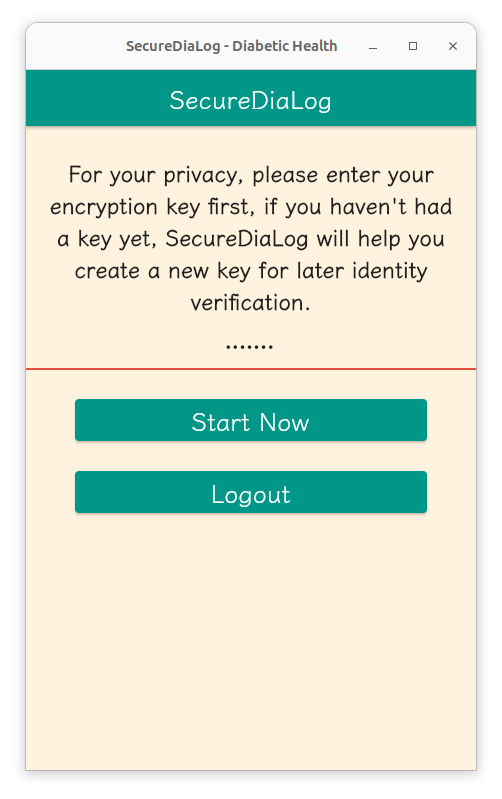
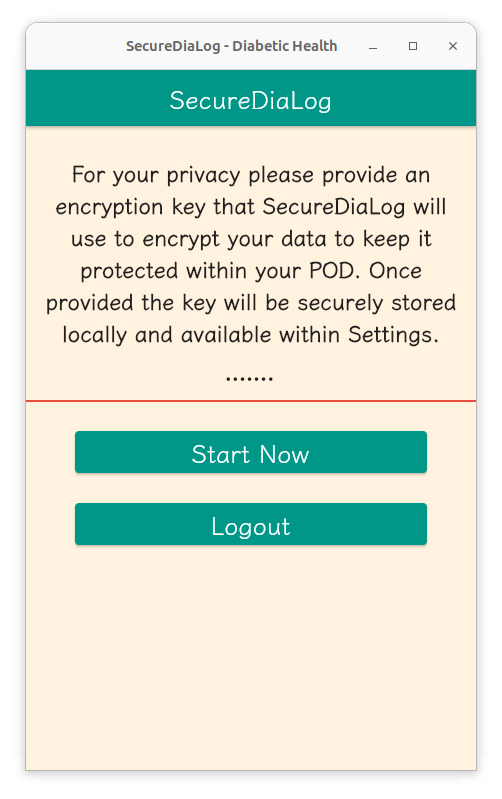
Update encrypt screen wording.

Changed region(s): [[0.0896, 0.2103, 0.9263, 0.6909]]

diff --git a/lib/ui/key_page/key_page.dart b/lib/ui/key_page/key_page.dart
@@ -80,7 +80,11 @@ class _KeyPageState extends State<KeyPage> {
               alignment: Alignment.topCenter,
               width: MediaQuery.of(context).size.width - 30,
               child: BaseWidget.getTitleText(
-                  """For your privacy, please enter your encryption key first, if you haven't had a key yet, SecureDiaLog will help you create a new key for later identity verification."""),
+                  "For your privacy please provide an encryption key "
+                  "that SecureDiaLog will use to encrypt your data "
+                  "to keep it protected within your POD. Once provided "
+                  "the key will be securely stored locally and available "
+                  "within Settings."),
             ),
             BaseWidget.getPadding(2.5),
             RawKeyboardListener(
